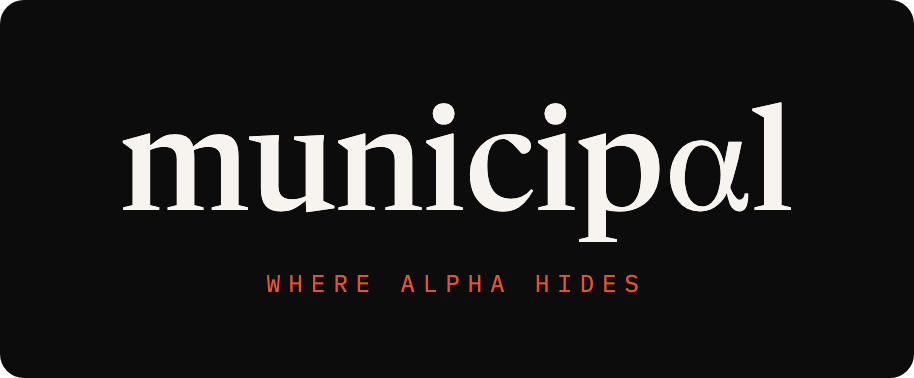
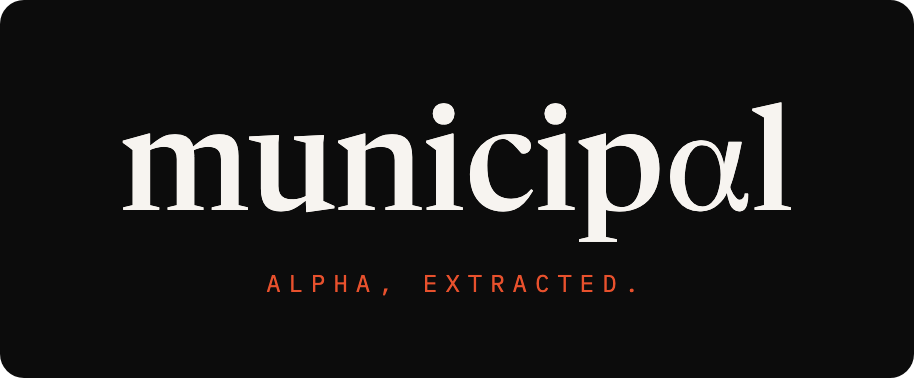
Brand review: update tagline to "alpha, extracted."
Live site adopted the new tagline in the 2026-04-10 overhaul, but the
brand-review page and its wordmark-tagline PNGs still rendered the old
"where alpha hides" text. Updated 4 text instances in index.html and
regenerated the 6 wordmark-tagline PNGs from the updated render source.

Changed region(s): [[0.2757, 0.7275, 0.7046, 0.7857]]

diff --git a/content/extra/brand-review/index.html b/content/extra/brand-review/index.html
@@ -67,7 +67,7 @@
 <body>
 
 <h1>municipαl</h1>
-<p class="sub">where alpha hides</p>
+<p class="sub">alpha, extracted.</p>
 
 <div class="section-label">What this is</div>
 <p class="note">
@@ -85,7 +85,7 @@
   Look at the wordmark. It says "municipal." But the "a" is a Greek alpha (α). Most people read right past it. Once you notice it, you can't unsee it.
 </p>
 <p class="note">
-  That's the whole company in one typographic move. The signal was always there, encoded in plain sight. The α does double duty: it's the "a" in municipal, and it's alpha — the investment term for edge. Where alpha hides.
+  That's the whole company in one typographic move. The signal was always there, encoded in plain sight. The α does double duty: it's the "a" in municipal, and it's alpha — the investment term for edge. Alpha, extracted.
 </p>
 
 <div class="section-label">Wordmark</div>
@@ -147,7 +147,7 @@
   </div>
   <div style="display: inline-flex; align-items: center; gap: 10px; background: #141414; padding: 10px 18px; border-radius: 8px;">
     <div style="width: 44px; height: 44px; overflow: hidden; border-radius: 50%;"><img src="icon-square-dark.png" style="width: 44px; height: 44px; object-fit: cover;"></div>
-    <div style="font-size: 14px; color: #ccc;">Municipal Alpha<br><small style="color: #555; font-size: 11px;">Where Alpha Hides</small></div>
+    <div style="font-size: 14px; color: #ccc;">Municipal Alpha<br><small style="color: #555; font-size: 11px;">Alpha, extracted.</small></div>
   </div>
   <div style="background: #F7F4F0; padding: 15px 20px; border-radius: 8px; display: inline-block;">
     <div style="font-family: 'Newsreader', serif; font-size: 16px; color: #0C0C0C; font-weight: 500; margin-bottom: 4px;">municipαl</div>
@@ -197,7 +197,7 @@
   <tr><th>Character</th><td>Greek lowercase alpha: α (U+03B1)</td></tr>
   <tr><th>Company name</th><td>Municipal Alpha (two words, capital M capital A)</td></tr>
   <tr><th>Wordmark</th><td style="font-family: 'Newsreader', serif; font-weight: 500; font-size: 16px;">municipαl</td></tr>
-  <tr><th>Tagline</th><td style="font-family: 'IBM Plex Mono', monospace; font-size: 12px; color: #E8512D; text-transform: uppercase; letter-spacing: 2px;">where alpha hides</td></tr>
+  <tr><th>Tagline</th><td style="font-family: 'IBM Plex Mono', monospace; font-size: 12px; color: #E8512D; text-transform: uppercase; letter-spacing: 2px;">alpha, extracted.</td></tr>
 </table>
 </div>
 
